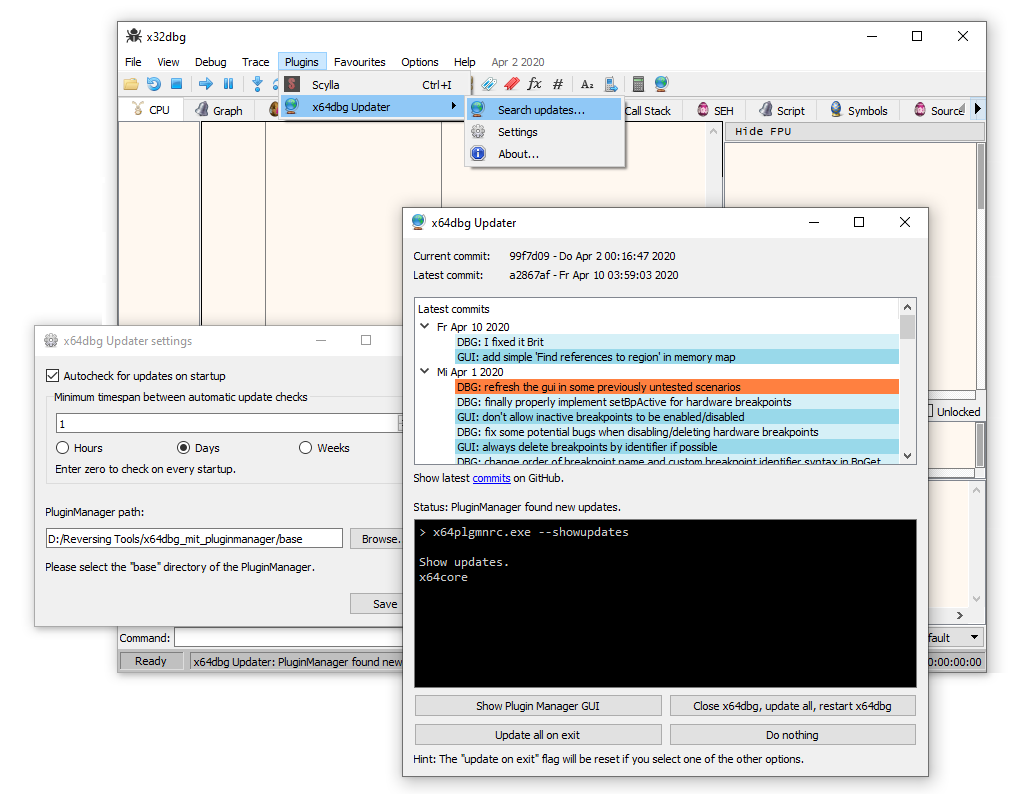
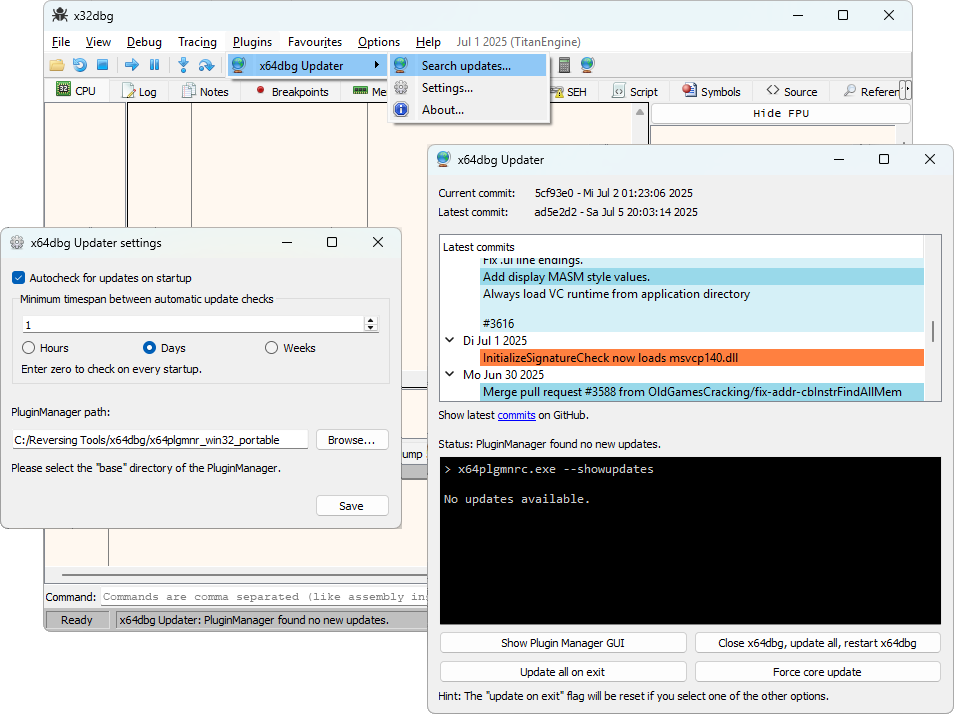
Changelog, Readme, Screenshot and gitignore

diff --git a/README.md b/README.md
@@ -18,8 +18,6 @@ On the first launch with this plugin installed the configuration dialog pops up.
 
 ## Build
 
-To build the plugin every Qt Creator, Qt 5.x and Visual Studio version should work. I'm using VS2019 and Qt 5.9.9 for developing but released versions are built with VS2013 and Qt 5.6.3, same as x64dbg builds.
+To build the plugin every Qt Creator, Qt 5.x and Visual Studio version should work. Released binarys are always built with the same environment x64dbg is built with. At time of writing this is Qt 5.12.12, VS2022 with 2017 C++ runtimes.
 
-Make sure you build in release mode because .lib files of the plugin SDK are built in release mode (must match) and x64dbg is shipped with release binarys of Qt. The Qt project file is configured to generate debug symbols (pdb) in release mode too, place them in x64dbgs plugin folder if you want to debug the plugin.
-
-If you have problems installing old Qt versions like 5.6.x you can trick the installer to use the old repositorys again as described here: [gist.github.com/LFriede/3d4cde1bfdb211db4896a0a8b890660b](https://gist.github.com/LFriede/3d4cde1bfdb211db4896a0a8b890660b)
+Make sure you build in release mode because .lib files of the plugin SDK are built in release mode (must match) and x64dbg is shipped with release binarys of Qt. The Qt project file is configured to generate debug symbols (pdb) in release mode too.

diff --git a/CHANGELOG.md b/CHANGELOG.md
@@ -2,9 +2,21 @@
 
 
 ## 0.4
- - Removed `_update.bat`.
- - Added option to force core update
- - Better colors for dark theme
+
+### tl;dr
+
+ - Mostly cosmetic sh... stuff, but this version works again with the latest x64dbg releases!
+
+### Details
+ - Fixed plugin to work with x64dbg version **2025.06.30**.
+   - Binarys are now built using Qt 5.12.12 and VS2022 with 2017 runtime.
+   - Commit list is fetched by WinINet API instead of Qt because Qt5Network component is not shipped by x64dbg anymore.
+ - Removed `_update.bat`, commands will be passed directly to `cmd.exe`.
+ - Added option to force x64dbg core package update/reinstall.
+ - Better colors for dark theme.
+ - The `Update all on exit` button can now be toggled on and off. Previously the `Do nothing` button was there to reset the flag, but that was misleading crappy design.
+ - Menu and window icons are shown again. This was broken since a x64dbg build a few years ago.
+ - GPLv3 license is now included.
 
 
 ## 0.3
